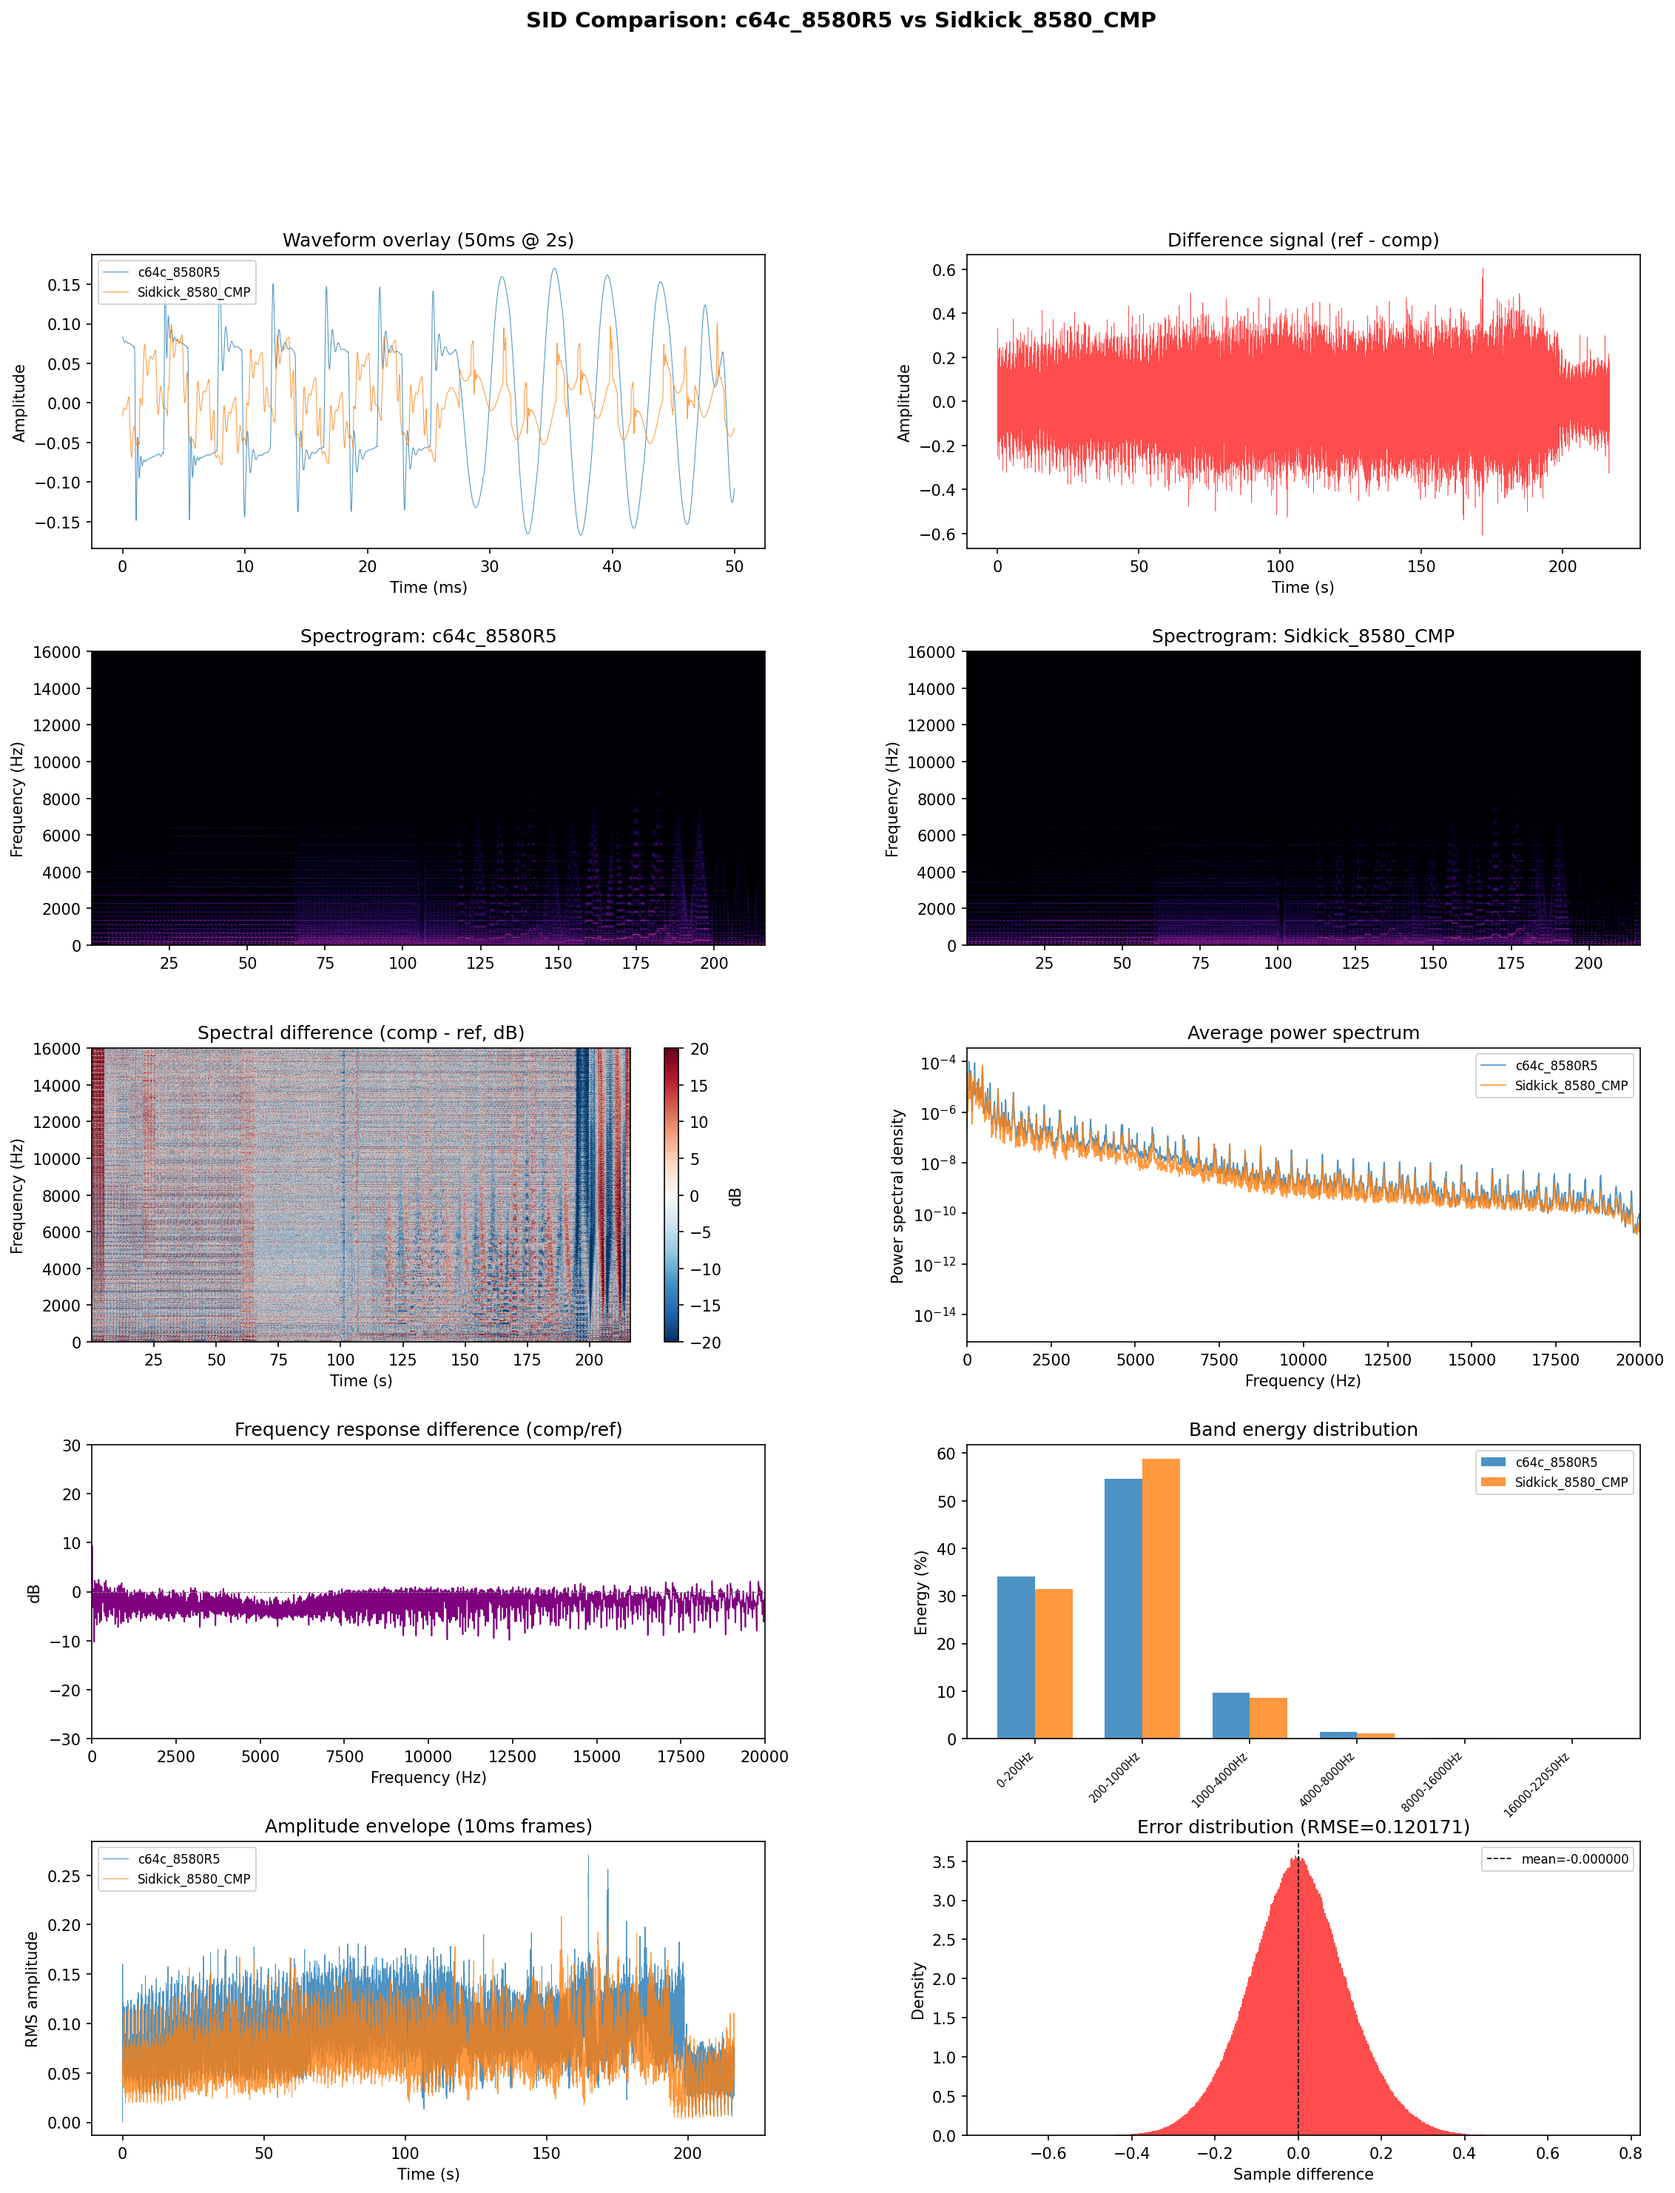
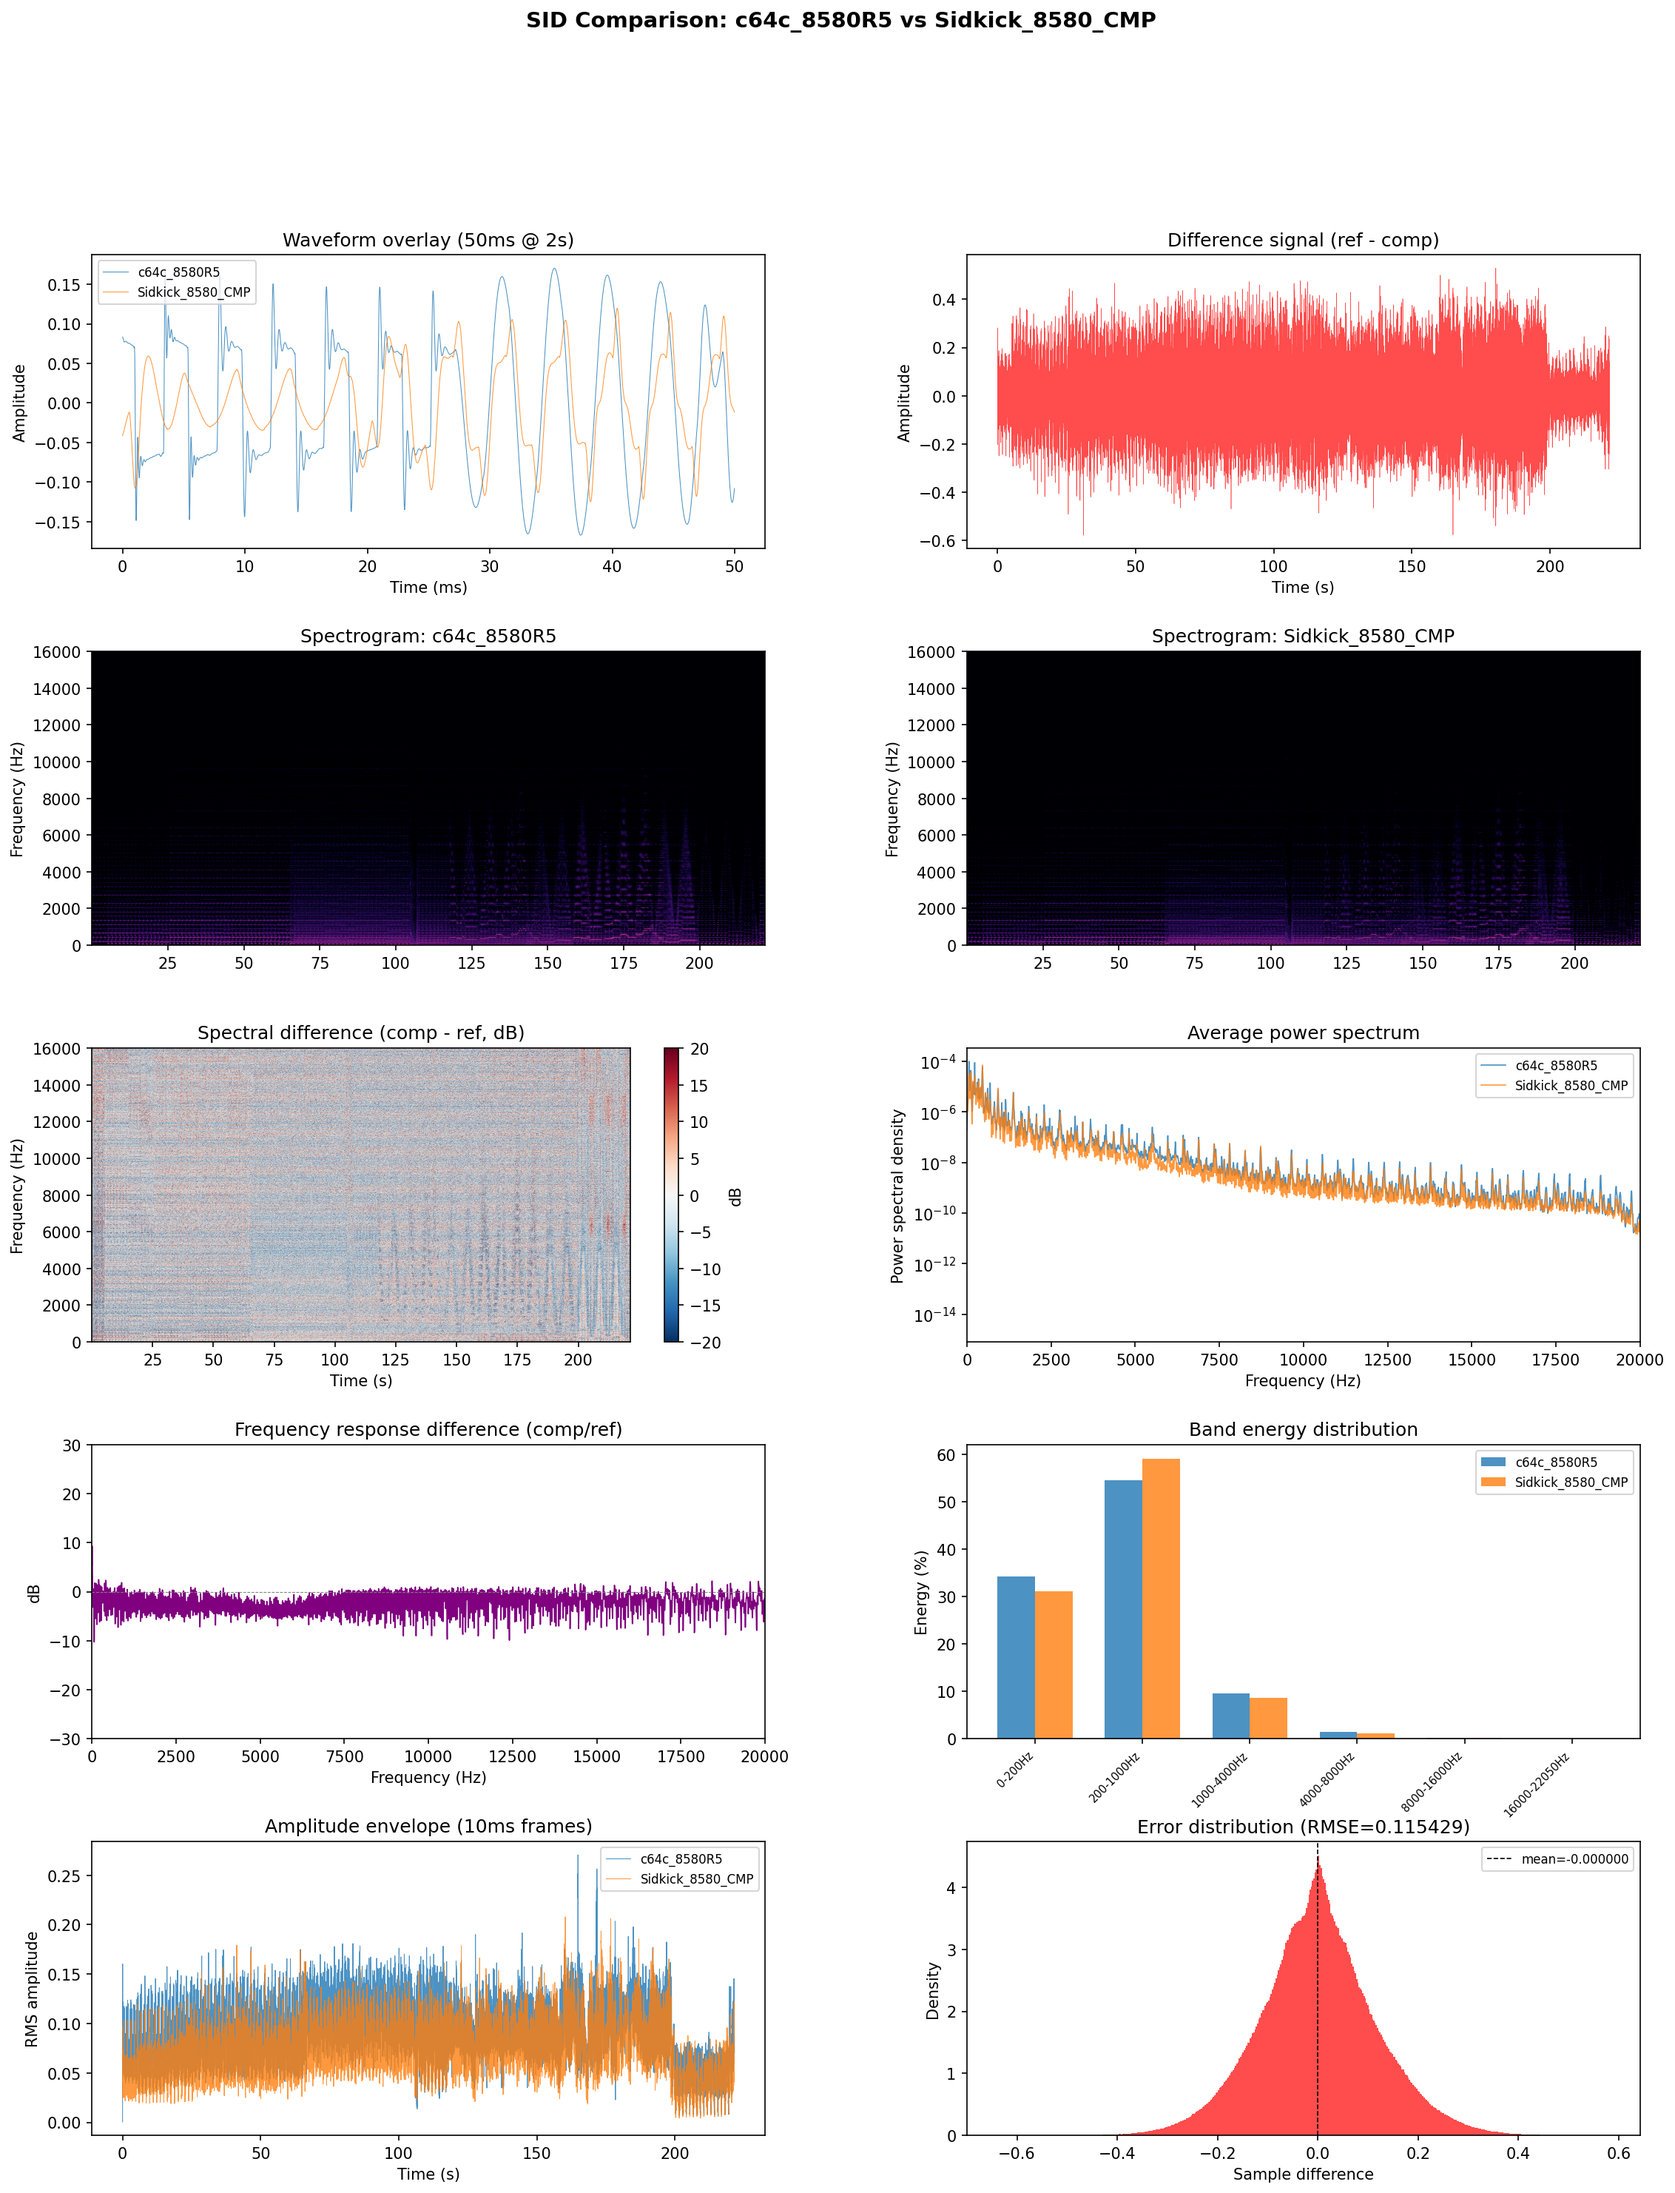
Update silence detection

diff --git a/sid_compare.py b/sid_compare.py
@@ -44,6 +44,27 @@ def resample_audio(data: np.ndarray, orig_sr: int, target_sr: int) -> np.ndarray
     return signal.resample_poly(data, up, down)
 
 
+def detect_tune_start(x: np.ndarray, sr: int, frame_ms: float = 100.0,
+                      silence_frac: float = 0.10) -> int:
+    """Sample index of the first frame whose RMS clearly exceeds the silence floor.
+
+    Uses a fraction of the *typical loud* level (95th-percentile RMS over 100 ms
+    frames) as the threshold. If the very first frame is already loud, returns 0
+    — i.e. the tune already starts from sample zero. This avoids the pitfall of
+    estimating a "noise floor" from the first 200 ms when the recording has no
+    leading silence at all.
+    """
+    frame = int(sr * frame_ms / 1000)
+    n_frames = len(x) // frame
+    if n_frames < 5:
+        return 0
+    rms_frames = np.sqrt(np.mean(x[: n_frames * frame].reshape(n_frames, frame) ** 2, axis=1))
+    loud_level = float(np.percentile(rms_frames, 95))
+    threshold = silence_frac * loud_level
+    above = np.flatnonzero(rms_frames > threshold)
+    return int(above[0] * frame) if len(above) else 0
+
+
 def align_signals(ref: np.ndarray, comp: np.ndarray, sr: int, max_lag_ms: float = 50.0) -> tuple[np.ndarray, np.ndarray, int]:
     """Align two signals using cross-correlation, compensating for recording delay."""
     max_lag = int(sr * max_lag_ms / 1000)
@@ -429,6 +450,9 @@ Examples:
     parser.add_argument("--target-sr", type=int, default=None,
                         help="Resample both signals to this rate. If omitted and rates differ, "
                              "resamples to the lower of the two.")
+    parser.add_argument("--trim-silence", action="store_true",
+                        help="Detect and trim leading silence in each signal before aligning. "
+                             "Anchors comparison at the first musical event in each file.")
 
     args = parser.parse_args()
 
@@ -471,6 +495,15 @@ Examples:
         output_default = "comparison.png"
 
     print(f"Sample rate: {sr} Hz, Duration: {len(ref_sig)/sr:.2f}s")
+
+    if args.trim_silence:
+        ref_start = detect_tune_start(ref_sig, sr)
+        comp_start = detect_tune_start(comp_sig, sr)
+        print(f"Trimming leading silence: ref={ref_start/sr:.3f}s, comp={comp_start/sr:.3f}s")
+        ref_sig = ref_sig[ref_start:]
+        comp_sig = comp_sig[comp_start:]
+        n = min(len(ref_sig), len(comp_sig))
+        ref_sig, comp_sig = ref_sig[:n], comp_sig[:n]
 
     if not args.no_align:
         print(f"Aligning signals (max lag: {args.max_lag_ms:.1f} ms)...")
